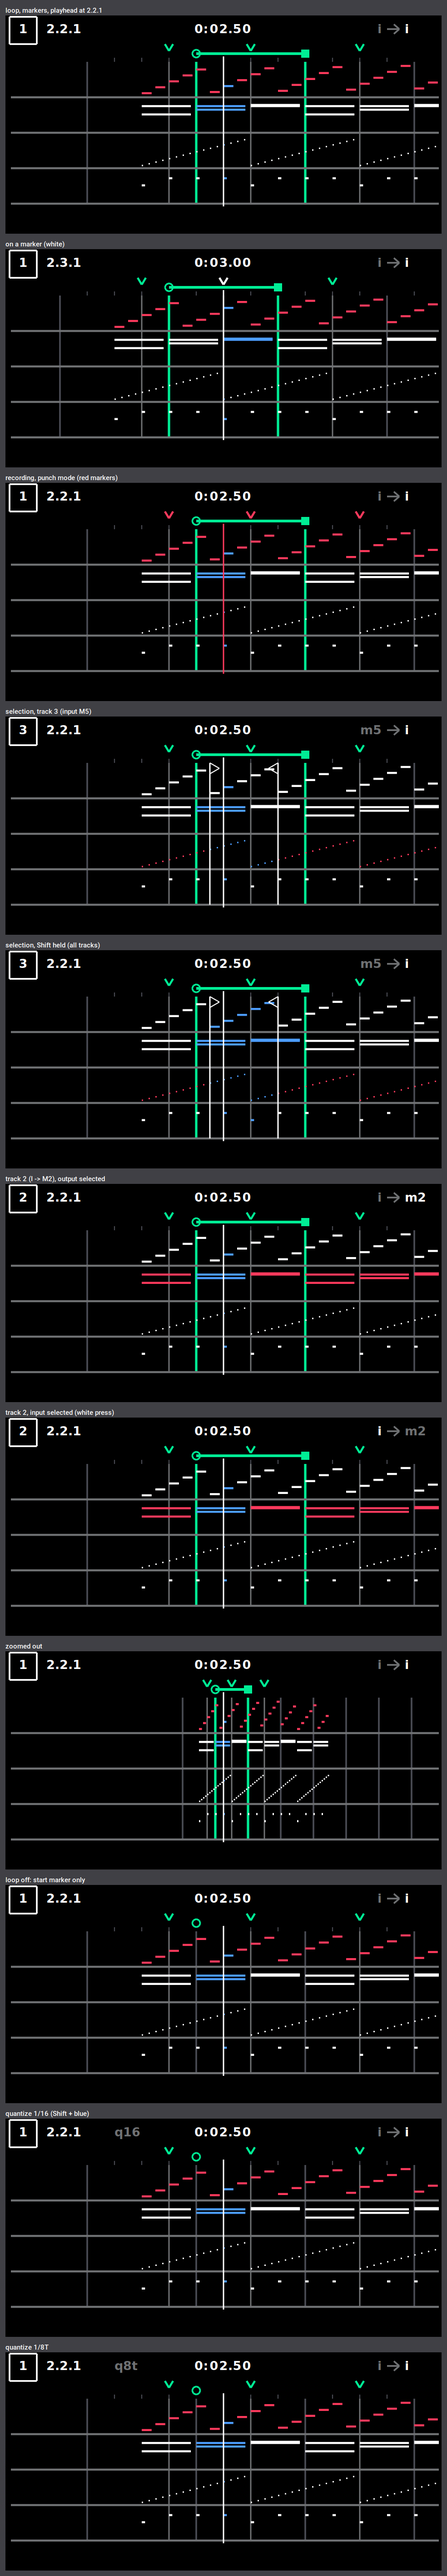
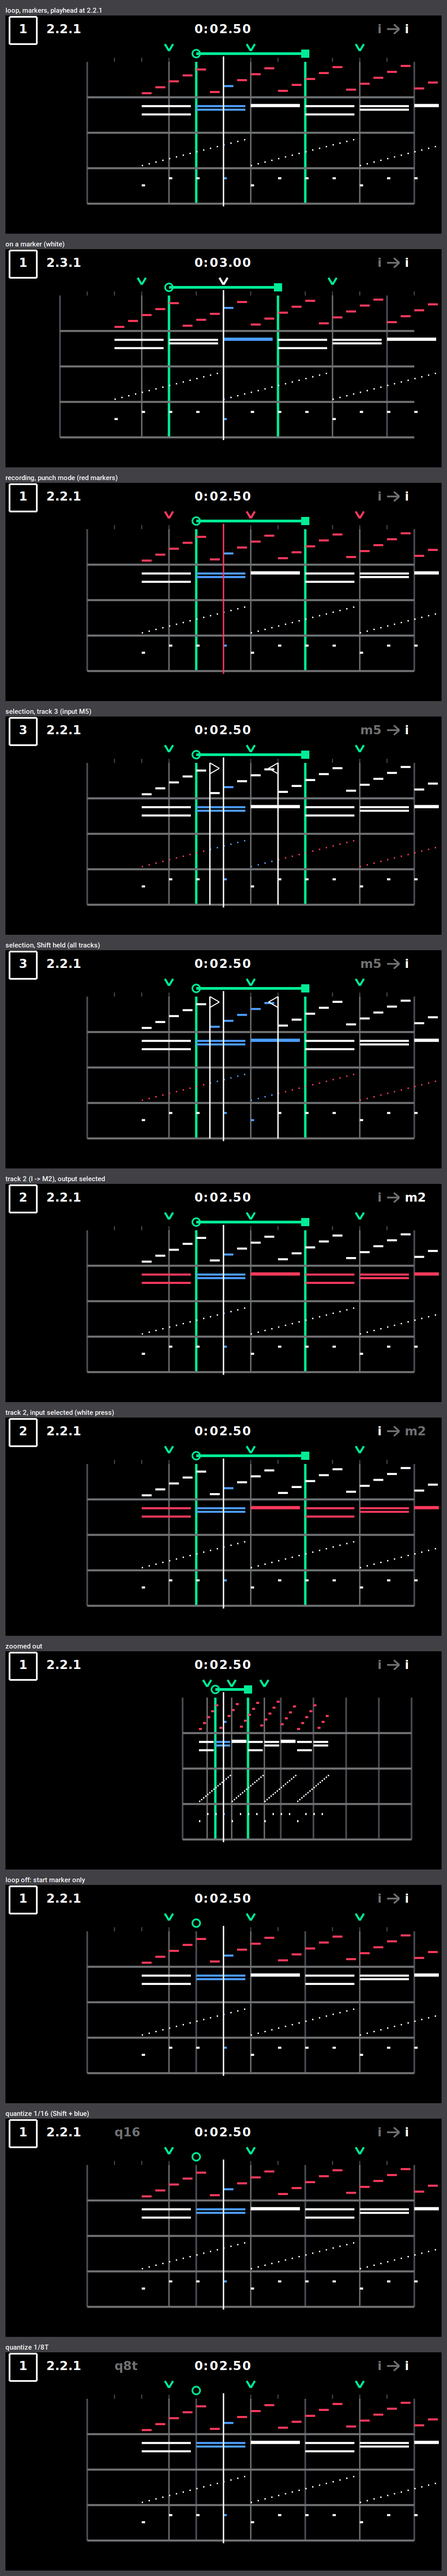
MIDI recorder: track separator lines only between the first and last bar / beat marker on screen

diff --git a/synth_sdk/seqdev/ms_draw.c b/synth_sdk/seqdev/ms_draw.c
@@ -131,16 +131,19 @@ void ms_draw(void *r, const ms_view *v, ms_t *s)
     /* bars and beats: lines through the lanes (bars thicker), beat ticks above the lanes when there is room */
     int32_t bpx = (int32_t)(((int64_t)bar * k) >> 16);
     int32_t b0 = ph - span > 0 ? (ph - span) / bar : 0;
+    int32_t mlo = X1 + 1, mhi = X0 - 1;                  /* first / last bar or beat marker on screen */
+#define MARK(x) do { if ((x) < mlo) mlo = (x); if ((x) > mhi) mhi = (x); } while (0)
     for (int32_t bi = b0, n = 0; n < 64; bi++, n++) {
         int32_t xb = MS_X(bi * bar);
         if (xb > X1) break;
-        if (ON(xb)) sq_line(r, xb, LANE_Y(0), xb, LANE_Y(4), 0x500, c_bar);
+        if (ON(xb)) { sq_line(r, xb, LANE_Y(0), xb, LANE_Y(4), 0x500, c_bar); MARK(xb); }
         if (bpx >= OP1_Q10(32))
             for (int q = 1; q < 4; q++) {
                 int32_t xq = MS_X(bi * bar + q * beat);
-                if (ON(xq)) sq_line(r, xq, LANE_Y(0) - OP1_Q10(3), xq, LANE_Y(0), 0x300, c_bar);
+                if (ON(xq)) { sq_line(r, xq, LANE_Y(0) - OP1_Q10(3), xq, LANE_Y(0), 0x300, c_bar); MARK(xq); }
             }
     }
+#undef MARK
 
     /* loop (as the tape: green bar, open ring at loop in, filled dot at loop out) + green lines through the lanes */
     if (v->loop_on && v->loop_out > v->loop_in) {
@@ -174,7 +177,7 @@ void ms_draw(void *r, const ms_view *v, ms_t *s)
         int32_t y = LANE_Y(t);
         const uint8_t *lc = t == v->sel_track ? c_red : s->h.mute[t] ? c_grey : c_white;
         int in_sel = v->sel_b >= 0 && (t == v->sel_track || v->shift);   /* LIFT takes these: blue */
-        sq_line(r, X0, y + OP1_Q10(26), X1, y + OP1_Q10(26), 0x600, c_lane);
+        if (mhi > mlo) sq_line(r, mlo, y + OP1_Q10(26), mhi, y + OP1_Q10(26), 0x600, c_lane);   /* between the markers */
         int n = ms_events(s, t, ph - span, ph + span, ev, ps, 96);
         for (int i = 0; i < n; i++) {
             int32_t x0 = MS_X(ps[i]);
